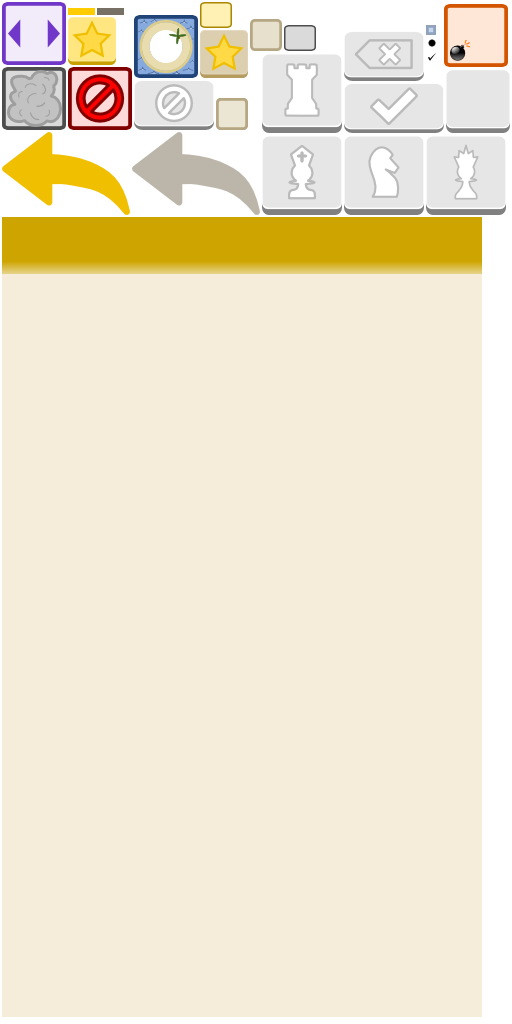
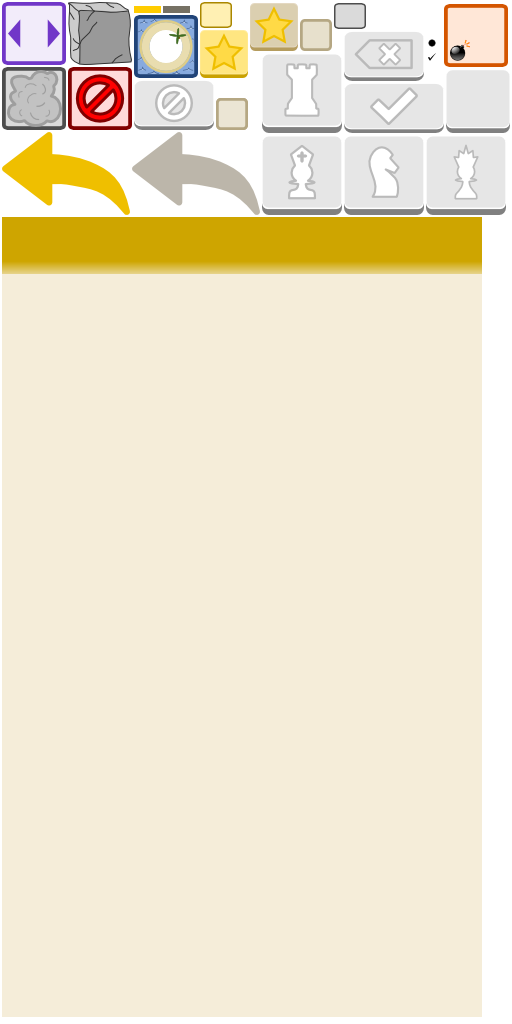
ADD : Obstacle Stone MOD : Libellé de l'obstacle Bomb centré MOD : ObstacleManager peut déterminer si un des obstacles cible une certaine lettre

Changed region(s): [[0.375, 0.0, 0.7188, 0.0938], [0.125, 0.0, 0.375, 0.0625]]

diff --git a/trunk/wordgraph/wordgraph-game/src/com/slamdunk/wordgraph/puzzle/parsing/PuzzleAttributesReader.java b/trunk/wordgraph/wordgraph-game/src/com/slamdunk/wordgraph/puzzle/parsing/PuzzleAttributesReader.java
@@ -20,6 +20,7 @@ import com.slamdunk.wordgraph.puzzle.obstacles.IntruderObstacle;
 import com.slamdunk.wordgraph.puzzle.obstacles.IsleObstacle;
 import com.slamdunk.wordgraph.puzzle.obstacles.MorphObstacle;
 import com.slamdunk.wordgraph.puzzle.obstacles.ObstacleManager;
+import com.slamdunk.wordgraph.puzzle.obstacles.StoneObstacle;
 
 public class PuzzleAttributesReader {
 
@@ -240,6 +241,15 @@ public class PuzzleAttributesReader {
 			String[] bombingParameters = obstacleBomb.split(",");
 			for (String parameters : bombingParameters) {
 				manager.add(BombObstacle.createFromProperties(parameters));
+			}
+		}
+		
+		// Lettres dans la pierre
+		String stoneFog = propertiesFile.getProperty("obstacles.stone", "");
+		if (!stoneFog.isEmpty()) {
+			String[] stonedLetters = stoneFog.split(",");
+			for (String letter : stonedLetters) {
+				manager.add(new StoneObstacle(letter));
 			}
 		}
 		

diff --git a/trunk/wordgraph/wordgraph-game/src/com/slamdunk/wordgraph/puzzle/obstacles/ObstaclesTypes.java b/trunk/wordgraph/wordgraph-game/src/com/slamdunk/wordgraph/puzzle/obstacles/ObstaclesTypes.java
@@ -7,5 +7,6 @@ public enum ObstaclesTypes {
 	MORPH,
 	BOMB,
 	CATEGORY,
-	HIDDEN
+	HIDDEN,
+	STONE
 }
